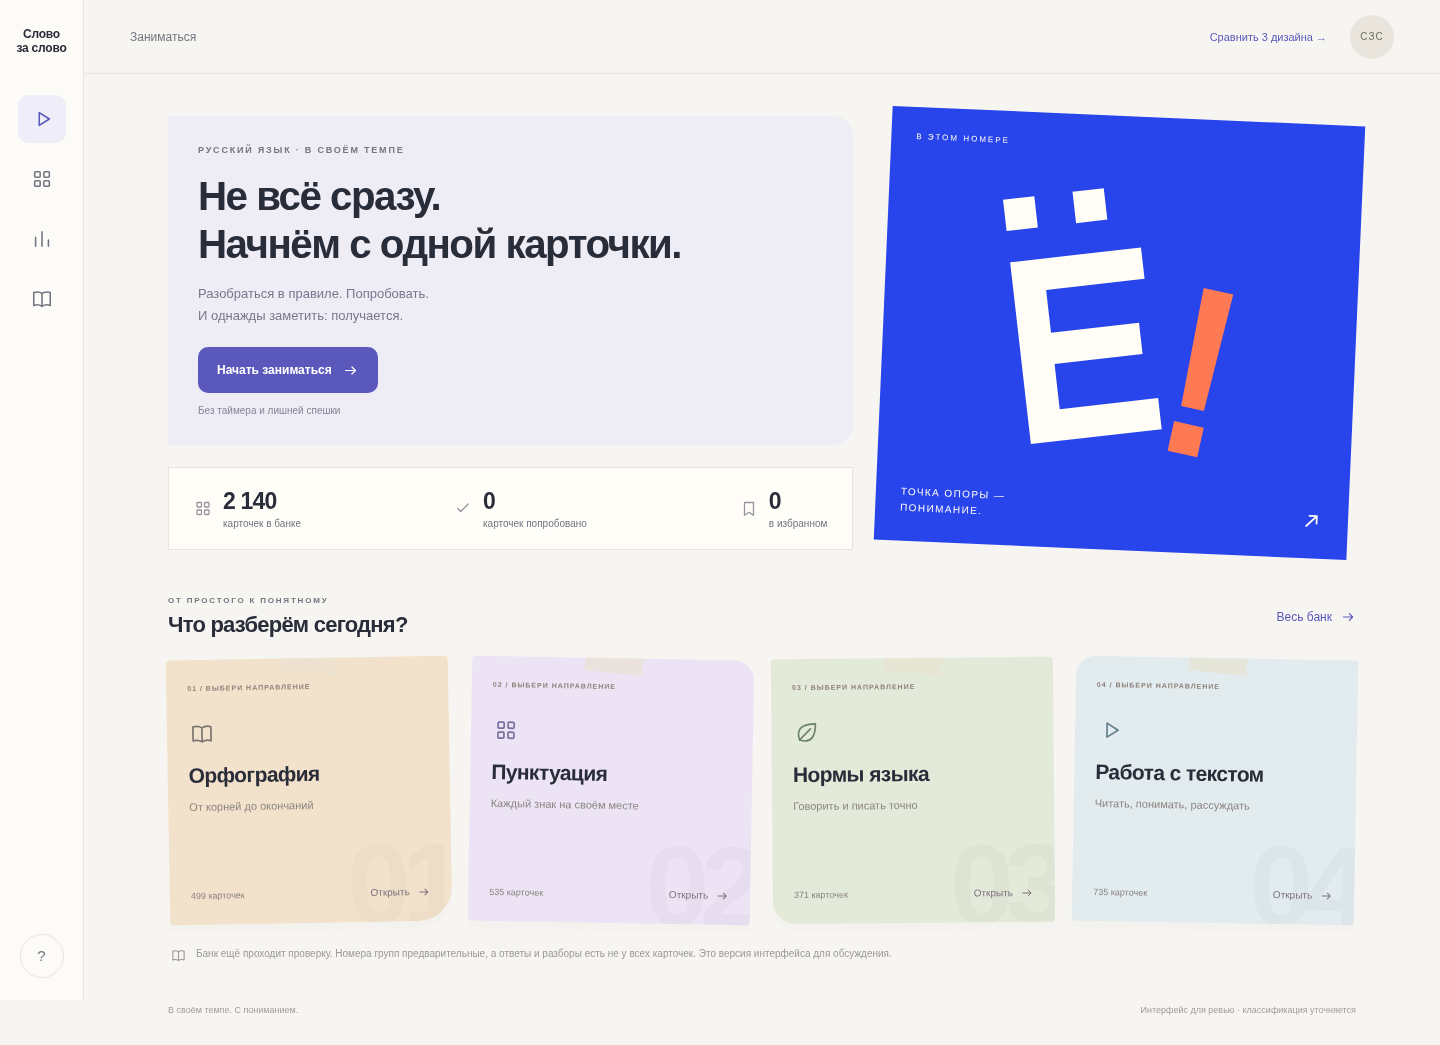
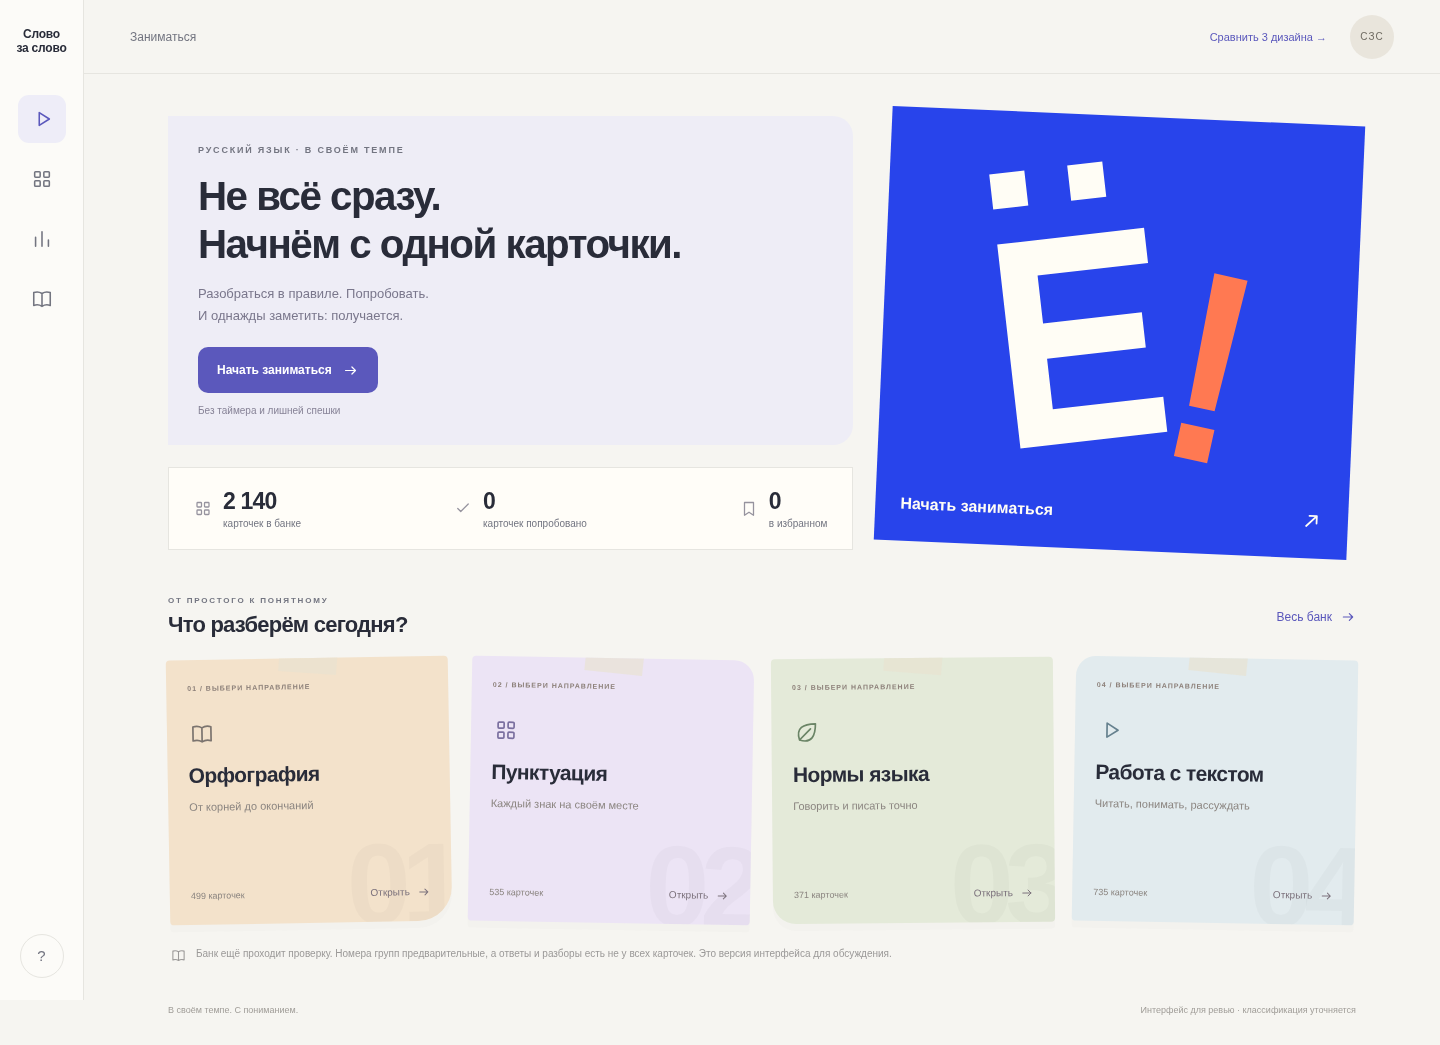
design: replace poster captions with start action

Changed region(s): [[0.6875, 0.1531, 0.875, 0.4593], [0.625, 0.4593, 0.7188, 0.49]]

diff --git a/html/js/app.js b/html/js/app.js
@@ -135,7 +135,7 @@ function renderStudy() {
       <section class="hero study-hero" aria-labelledby="hero-title">
         <div class="hero-copy"><span class="eyebrow">РУССКИЙ ЯЗЫК · В СВОЁМ ТЕМПЕ</span><h1 id="hero-title">Не всё сразу.<br>Начнём с одной карточки.</h1><p>Разобраться в правиле. Попробовать.<br> И однажды заметить: получается.</p><a class="button primary" href="#card/${candidate.id}">${store.lastCard ? "Продолжить занятие" : "Начать заниматься"} ${icon("arrow")}</a><span class="hero-meta">Без таймера и лишней спешки</span></div>
       </section>
-      <a class="study-poster" href="#card/${candidate.id}" aria-label="Начать практику с карточки"><div class="poster-face"><span class="poster-kicker">В ЭТОМ НОМЕРЕ</span><span class="poster-art" aria-hidden="true"><svg class="poster-glyph" viewBox="0 0 300 260" fill="none"><g fill="currentColor" transform="rotate(-9 130 130)"><path d="M62 18h27v27H62zM122 18h27v27h-27zM62 72h113v27H90v37h76v27H90v39h85v27H62z"/></g><g fill="#ff7952" transform="rotate(10 220 165)"><path d="M209 99h26l-3 103h-20zM209 216h26v26h-26z"/></g></svg></span><span class="poster-foot">ТОЧКА ОПОРЫ —<br>ПОНИМАНИЕ.</span><span class="poster-arrow">${icon("arrow")}</span></div></a>
+      <a class="study-poster" href="#card/${candidate.id}" aria-label="Начать заниматься"><div class="poster-face"><span class="poster-art" aria-hidden="true"><svg class="poster-glyph" viewBox="0 0 300 260" fill="none"><g fill="currentColor" transform="rotate(-9 130 130)"><path d="M62 18h27v27H62zM122 18h27v27h-27zM62 72h113v27H90v37h76v27H90v39h85v27H62z"/></g><g fill="#ff7952" transform="rotate(10 220 165)"><path d="M209 99h26l-3 103h-20zM209 216h26v26h-26z"/></g></svg></span><span class="poster-cta">Начать заниматься</span><span class="poster-arrow">${icon("arrow")}</span></div></a>
       <section class="stat-strip" aria-label="Ваши результаты"><div>${icon("bank")}<span><strong>${num(catalog.cards.length)}</strong><small>карточек в банке</small></span></div><div>${icon("check")}<span><strong>${s.practiced.size}</strong><small>карточек попробовано</small></span></div><div>${icon("bookmark")}<span><strong>${catalog.cards.filter((c) => store.tags(c.id).fav).length}</strong><small>в избранном</small></span></div></section>
     </div>
     <section class="study-topics" aria-labelledby="topics-title"><div class="section-heading"><div><span class="eyebrow">ОТ ПРОСТОГО К ПОНЯТНОМУ</span><h2 id="topics-title">Что разберём сегодня?</h2></div><a class="text-link" href="#bank">Весь банк ${icon("arrow")}</a></div><div class="topic-grid topic-notes">${topics.map((t, i) => `<a class="topic-card topic-note ${t.color}" href="#bank?topic=${i}"><span class="note-tape" aria-hidden="true"></span><span class="eyebrow">${String(i + 1).padStart(2, "0")} / ВЫБЕРИ НАПРАВЛЕНИЕ</span><span class="topic-icon">${icon(t.icon)}</span><h3>${t.name}</h3><p>${t.detail}</p><span class="note-number" aria-hidden="true">${String(i + 1).padStart(2, "0")}</span><span class="note-bottom"><span class="topic-count">${num(topicCards(t).length)} карточек</span><span class="note-open">Открыть ${icon("arrow")}</span></span></a>`).join("")}</div></section>

diff --git a/html/css/app.css b/html/css/app.css
@@ -2815,22 +2815,17 @@ dialog form {
   overflow: hidden;
   min-height: 375px;
   display: grid;
-  grid-template-rows: auto minmax(0, 1fr) auto;
+  grid-template-rows: minmax(0, 1fr) auto;
   gap: 20px;
   padding: 25px;
 }
-.poster-kicker {
-  font-size: 8px;
-  letter-spacing: 2px;
+.poster-cta {
   position: relative;
   z-index: 1;
-}
-.poster-foot {
-  position: relative;
-  z-index: 1;
-  font-size: 10px;
-  letter-spacing: 1.4px;
-  line-height: 1.6;
+  font-size: 16px;
+  font-weight: 550;
+  line-height: 1.5;
+  padding-right: 36px;
 }
 .poster-arrow {
   position: absolute;
@@ -3060,14 +3055,8 @@ dialog form {
     padding: 20px;
     transform: rotate(1.5deg);
   }
-  .poster-kicker {
-    font-size: 7px;
-    max-width: 90px;
-    line-height: 1.8;
-  }
-  .poster-foot {
-    font-size: 8px;
-    max-width: 130px;
+  .poster-cta {
+    font-size: 14px;
   }
   .poster-arrow {
     bottom: 20px;

diff --git a/tests/composed_home_smoke.py b/tests/composed_home_smoke.py
@@ -29,15 +29,16 @@ def main():
                 page.set_viewport_size({'width': width, 'height': 1000 if width > 760 else 844})
                 page.goto(base, wait_until='networkidle')
                 assert page.locator('.study-poster').is_visible()
+                assert page.locator('.poster-cta').inner_text() == 'Начать заниматься'
+                assert 'В ЭТОМ НОМЕРЕ' not in page.locator('.study-poster').inner_text()
+                assert 'ТОЧКА ОПОРЫ' not in page.locator('.study-poster').inner_text()
                 assert page.evaluate("""() => {
                     const card = document.querySelector('.study-poster');
                     const style = getComputedStyle(card);
-                    const title = document.querySelector('.poster-kicker');
                     const art = document.querySelector('.poster-art');
-                    const footer = document.querySelector('.poster-foot');
+                    const footer = document.querySelector('.poster-cta');
                     return style.backgroundColor === 'rgba(0, 0, 0, 0)' &&
                         style.padding === '0px' &&
-                        title.offsetTop + title.offsetHeight <= art.offsetTop &&
                         art.offsetTop + art.offsetHeight <= footer.offsetTop;
                 }"""), ('Poster frame or overlapping rows', width)
                 assert page.locator('.topic-note').count() == 4

diff --git a/docs/composed-home.md b/docs/composed-home.md
@@ -7,7 +7,7 @@
 - Светлый фон без сетки.
 - На компьютере — узкая панель четырёх навигационных иконок. У ссылок сохранены доступные названия, подсказки и выделение текущего раздела. На телефоне остаётся нижняя навигация.
 - Верх слева: «Не всё сразу. Начнём с одной карточки», действие начала/продолжения и отдельные реальные счётчики.
-- Верх справа: кобальтовый типографический постер «Ё!» из «Редакции», с переходом в практику.
+- Верх справа: кобальтовый типографический постер «Ё!» из «Редакции», с переходом в практику. Единственная подпись — «Начать заниматься»; прежние «В этом номере» и «Точка опоры — понимание» убраны.
 - Внизу — четыре тематические карточки. Содержимое и переходы сохранены, оформление взято у notes «Студии»: цвета бумаги, небольшой наклон, скруглённый угол, полупрозрачные номера и детали скотча.
 - Декоративные элементы не являются дополнительными функциями. Указанные числа берутся из каталога и локальных действий.
 - На телефоне: основной призыв, счётчики, компактный постер и сетка тем 2×2.
